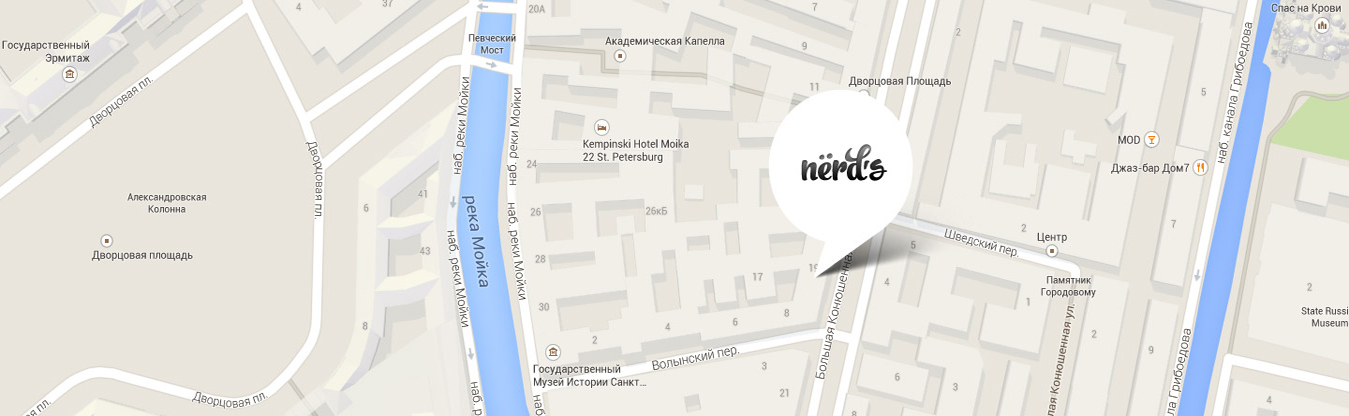
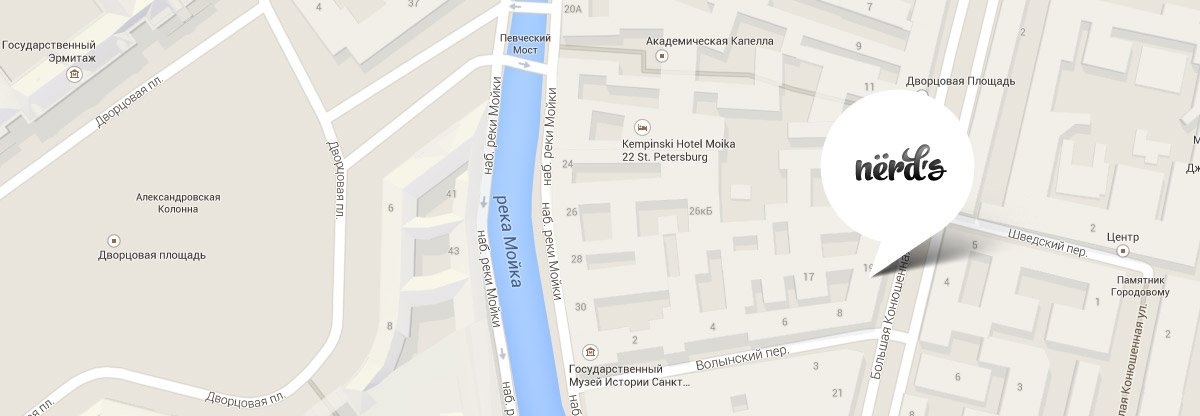
correction map, correcton form, correction pagination

diff --git a/catalog.html b/catalog.html
@@ -54,48 +54,48 @@
               <div class="toggle toggle-max"></div>
             </div>
             <div class="price-controls">
-              <label class="price-controls-field min-price">от<input class="price-controls-input" name="min-price" type="text" value="0">
+              <label class="price-controls-field min-price">от<input class="price-controls-input" name="min-price" type="number" value="0">
               </label>
-              <label class="price-controls-field max-price">до<input class="price-controls-input" name="max-price" type="text" value="15000">
+              <label class="price-controls-field max-price">до<input class="price-controls-input" name="max-price" type="number" value="15000">
               </label>
             </div>
           </div>
         </fieldset>
         <fieldset class="form-group">
           <legend class="group-title">Сетка:</legend>
-          <input class="form-radio-input" type="radio" name="grid" value="adaptive" id="radio-1" checked>
-          <label class="form-radio-item" for="radio-1">
+          <label class="form-radio-item">
+            <input class="form-radio-input" type="radio" name="grid" value="adaptive" checked>
             <span class="form-radio-text">Адаптивная</span>
           </label>
-          <input class="form-radio-input" type="radio" name="grid" value="fixed" id="radio-2">
-          <label class="form-radio-item" for="radio-2">
+          <label class="form-radio-item">
+            <input class="form-radio-input" type="radio" name="grid" value="fixed">
             <span class="form-radio-text">Фиксированная</span>
           </label>
-          <input class="form-radio-input" type="radio" name="grid" value="rubber" id="radio-3">
-          <label class="form-radio-item" for="radio-3">
+          <label class="form-radio-item">
+            <input class="form-radio-input" type="radio" name="grid" value="rubber">
             <span class="form-radio-text">Резиновая</span>
           </label>
         </fieldset>
         <fieldset class="form-group">
           <legend class="group-title">Особенности:</legend>
-          <input  class="form-checkbox-input" type="checkbox" value="slider" id="checkbox-1" checked>
-          <label class="form-checkbox-item" for="checkbox-1">
+          <label class="form-checkbox-item">
+            <input  class="form-checkbox-input" type="checkbox" value="slider" checked>
             <span class="form-checkbox-text">Слайдер</span>
           </label>
-          <input class="form-checkbox-input" type="checkbox" value="advantages" id="checkbox-2">
-          <label class="form-checkbox-item" for="checkbox-2">
+          <label class="form-checkbox-item">
+            <input class="form-checkbox-input" type="checkbox" value="advantages">
             <span class="form-checkbox-text">Блок преимуществ</span>
           </label>
-          <input class="form-checkbox-input" type="checkbox" value="news" id="checkbox-3" checked>
-          <label class="form-checkbox-item" for="checkbox-3">
+          <label class="form-checkbox-item">
+            <input class="form-checkbox-input" type="checkbox" value="news" checked>
             <span class="form-checkbox-text">Новости</span>
           </label>
-          <input class="form-checkbox-input" type="checkbox" value="gallery" id="checkbox-4">
-          <label class="form-checkbox-item" for="checkbox-4">
+          <label class="form-checkbox-item">
+            <input class="form-checkbox-input" type="checkbox" value="gallery">
             <span class="form-checkbox-text">Галерея</span>
           </label>
-          <input class="form-checkbox-input" type="checkbox" value="basket" id="checkbox-5">
-          <label class="form-checkbox-item" for="checkbox-5">
+          <label class="form-checkbox-item">
+            <input class="form-checkbox-input" type="checkbox" value="basket">
             <span class="form-checkbox-text">Корзина</span>
           </label>
         </fieldset>
@@ -107,7 +107,7 @@
       <a class="sorting-link active" href="#">по цене</a>
       <a class="sorting-link" href="#">по типу</a>
       <a class="sorting-link" href="#">по названию</a>
-      <a class="sorting-arrow done active"></a>
+      <a class="sorting-arrow down active"></a>
       <a class="sorting-arrow app"></a>
     </div>
     <div class="catalog-content">
@@ -177,7 +177,7 @@
   </main>
   <section class="address">
     <div class="address-map">
-      <img src="img/map.jpg" alt="Карта" width="1349" height="416">
+      <img class="map-img" src="img/map.jpg" alt="Карта" width="1200" height="416">
     </div>
     <div class="addres-contacts">
       <b class="addres-contacts-title">NЁRDS DESIGN STUDIO</b>

diff --git a/css/style.css b/css/style.css
@@ -447,6 +447,7 @@ template {
 }
 
 body {
+  min-width: 1200px;
   margin: 0;
   padding: 0;
   font-size: 16px;
@@ -693,6 +694,7 @@ a {
   color: #ffffff;
   background-color: #fb565a;
   border-radius: 3px;
+  cursor: pointer;
 }
 
 .btn:hover {
@@ -950,6 +952,11 @@ a {
 .address {
   position: relative;
   height: 416px;
+}
+
+.map-img {
+  display: block;
+  margin: 0 auto;
 }
 
 .addres-contacts {
@@ -1214,7 +1221,7 @@ a {
 .form-group {
   padding: 0;
   margin: 0;
-  margin-bottom: 55px;
+  margin-bottom: 40px;
   border: none;
 }
 
@@ -1310,8 +1317,8 @@ a {
   display: none;
 }
 
-.form-radio-input + .form-radio-item,
-.form-checkbox-input + .form-checkbox-item {
+.form-radio-input + .form-radio-text,
+.form-checkbox-input + .form-checkbox-text {
   position: relative;
   display: block;
   margin-bottom: 15px;
@@ -1321,12 +1328,7 @@ a {
   cursor: pointer;
 }
 
-.form-radio-item:last-of-type,
-.form-checkbox-item:last-of-type {
-  margin-bottom: 0;
-}
-
-.form-radio-input + .form-radio-item::before {
+.form-radio-input + .form-radio-text::before {
   position: absolute;
   content: "";
   width: 25px;
@@ -1337,11 +1339,11 @@ a {
   opacity: 0.4;
 }
 
-.form-radio-input:checked + .form-radio-item::before {
+.form-radio-input:checked + .form-radio-text::before {
   background-position: -5px -58px;
 }
 
-.form-checkbox-input + .form-checkbox-item::before {
+.form-checkbox-input + .form-checkbox-text::before {
   position: absolute;
   content: "";
   width: 23px;
@@ -1352,23 +1354,23 @@ a {
   opacity: 0.4;
 }
 
-.form-checkbox-input:checked + .form-checkbox-item::before {
+.form-checkbox-input:checked + .form-checkbox-text::before {
   width: 27px;
   background-position: -5px -0px;
 }
 
-.form-radio-input:disabled + .form-radio-item,
-.form-checkbox-input:disabled + .form-checkbox-item {
+.form-radio-input:disabled + .form-radio-text,
+.form-checkbox-input:disabled + .form-checkbox-text {
   opacity: 0.1;
 }
 
-.form-radio-item:hover,
-.form-checkbox-item:hover {
+.form-radio-text:hover,
+.form-checkbox-text:hover {
   color: #000000;
 }
 
-.form-radio-item:hover::before,
-.form-checkbox-item:hover::before {
+.form-radio-text:hover::before,
+.form-checkbox-text:hover::before {
   opacity: 1;
 }
 
@@ -1432,9 +1434,10 @@ a {
   display: inline-block;
   border: 9px solid #000000;
   opacity: 0.2;
+  cursor: pointer;
 }
 
-.sorting-arrow.done {
+.sorting-arrow.down {
   border-bottom-width: 0px;
   border-right-color: transparent;
   border-left-color: transparent;
@@ -1447,7 +1450,7 @@ a {
   border-left-color: transparent;
 }
 
-.sorting-arrow.done.active {
+.sorting-arrow.down.active {
   opacity: 1;
 }
 
@@ -1571,6 +1574,7 @@ a {
   background-color: #ffffff;
   border: 3px solid #dbdbdb;
   line-height: 44px;
+  color: #000000;
 }
 
 .pagination-link.next {
@@ -1578,11 +1582,11 @@ a {
   width: 260px;
 }
 
-.pagination-link:hover {
+.pagination-link:not(.active):hover {
   background-color: #dfdfdf;
 }
 
-.pagination-link:active {
+.pagination-link:not(.active):active {
   background-color: #d5d5d5;
   color: rgba(0, 0, 0, 0.3);
   box-shadow: inset 0 3px rgb(191, 191, 191);

diff --git a/index.html b/index.html
@@ -22,7 +22,7 @@
               <a class="main-navigation-link" href="#">Клиенты</a>
             </li>
             <li class="main-navigation-item">
-              <a class="main-navigation-link" href="#">Магазин</a>
+              <a class="main-navigation-link" href="catalog.html">Магазин</a>
             </li>
             <li class="main-navigation-item">
               <a class="main-navigation-link" href="#">Контакты</a>
@@ -141,7 +141,7 @@
   </main>
   <section class="address">
     <div class="address-map">
-      <img src="img/map.jpg" alt="Карта" width="1349"height="416">
+      <img class="map-img" src="img/map.jpg" alt="Карта" width="1200" height="416">
     </div>
     <div class="addres-contacts">
       <b class="addres-contacts-title">NЁRDS DESIGN STUDIO</b>
